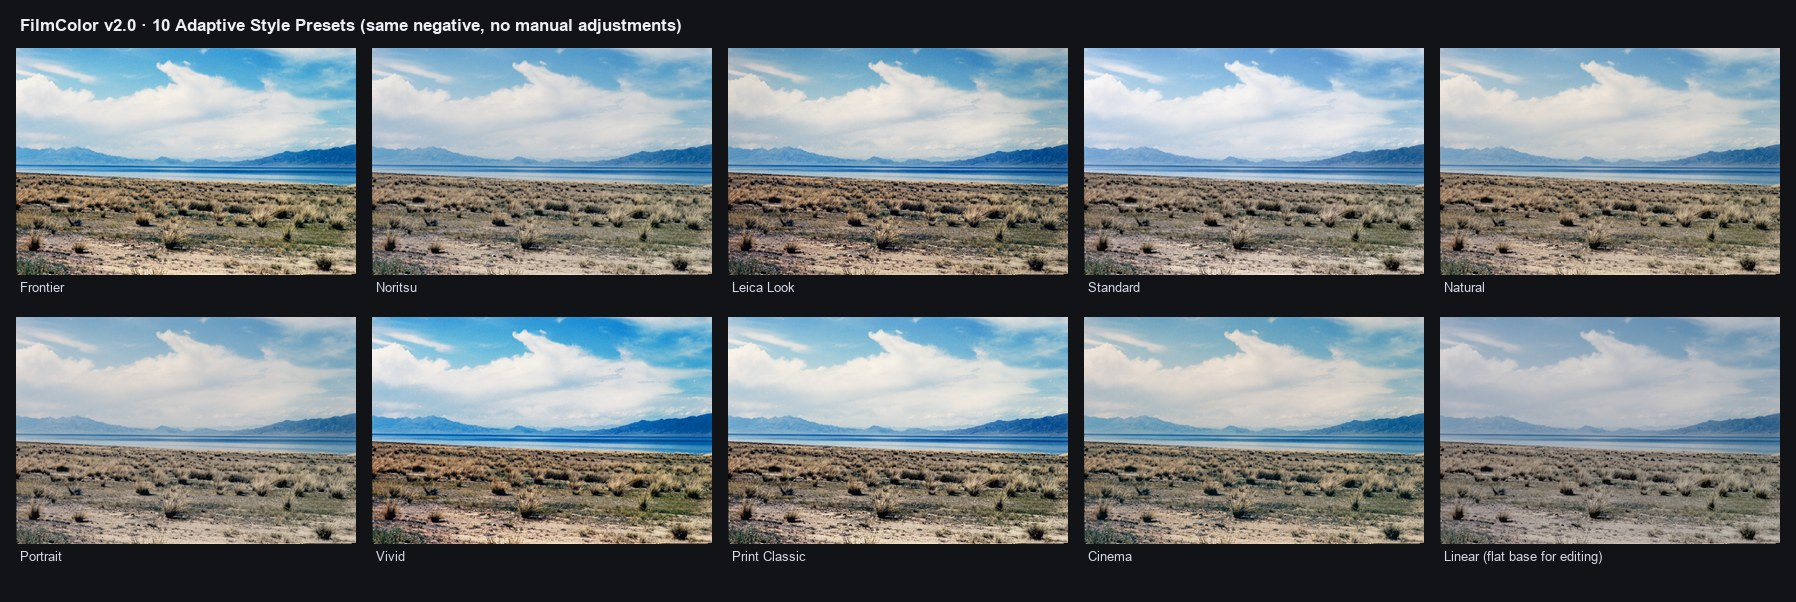
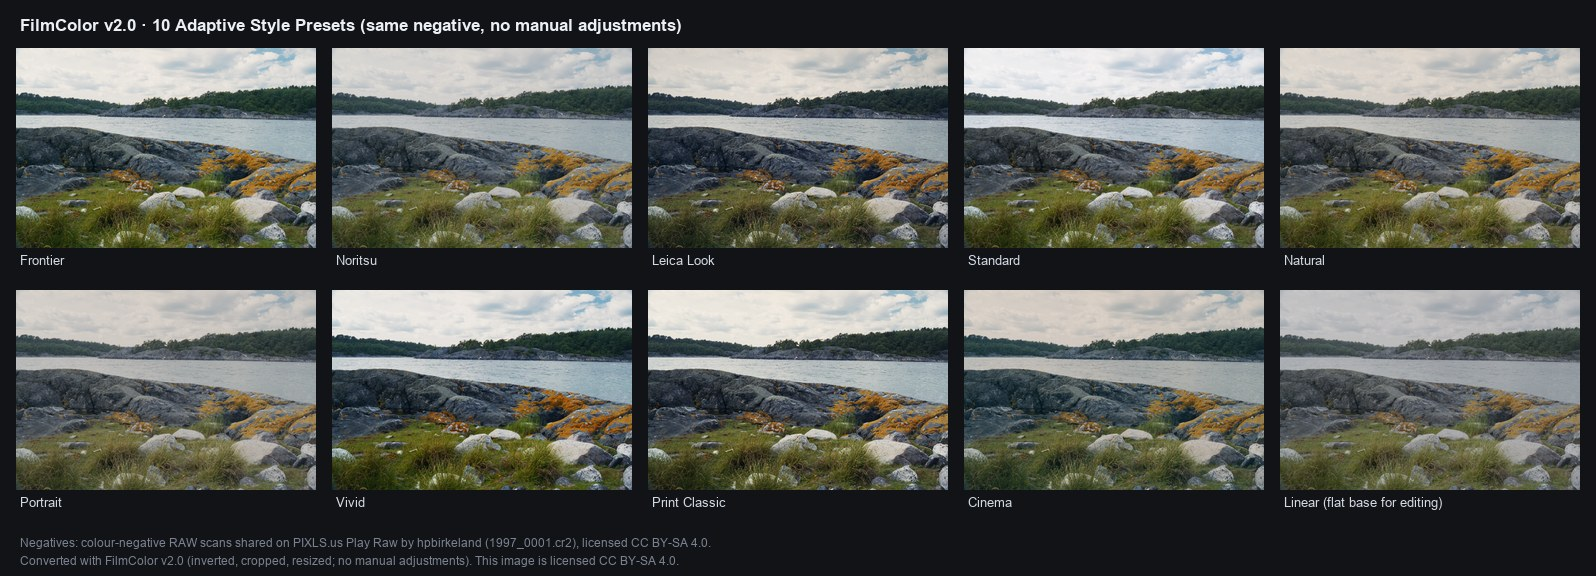
docs(readme): showcase images from CC BY-SA 4.0 PIXLS.us samples
Replace the before/after, preset and interface images with FilmColor v2.0
conversions of colour-negative RAW scans that photographers shared on
PIXLS.us Play Raw under CC BY-SA 4.0 (hpbirkeland, jonathanBieler,
clennep, jjbraun). Credit them in both README captions, on the images and
in docs/assets/CREDITS.md; the composites are released under CC BY-SA 4.0.
The captions note that some of these frames were in the training pool, so
the blind benchmark remains the accuracy reference. Record the sources in
data/manifests/SOURCES.md.

diff --git a/data/manifests/SOURCES.md b/data/manifests/SOURCES.md
@@ -16,6 +16,7 @@
 | ext_group_pack 中公开来源的部分 | 同上；文件名显示来源于公开网站或论坛 | 2026-10-16 | 70 个“话题号_随机串”式的论坛上传文件（49 个话题号）；Internet Archive 样例、RawTherapee 样例、Signynt 官方示例、GitHub 样例与单元测试夹具、CineStill ConvertTools 官方转换、“正负样本_…5500dpi”一组；写明“帖 12569”、“原帖求 darktable negadoctor 支持”的文件 | **training / research-ok**：用户 2026-10-17 说明，许多群友就是这些论坛帖的原作者；其余文件在授权时已与群友确认取得原作者的完整授权，可用于研究和训练。**不含公开再分发** | 文件名记录的是来源，不影响授权；授权依据是用户的上述说明 |
 | own_photos | 用户自有：用户的成片文件夹 `<EXTERNAL_VOLUME>/照片`，原位只读 | 2026-10-17 登记 | 951 个文件（JPEG 899、BMP 36、TIFF 12、其他 4），18 GB，按卷编号（#001～#020、新疆、寻微映像、老照片）。来源混合：冲扫店成品（Z 7II 翻拍、Photoshop 22.4，7956×5300）；**用户本人在 Lightroom Classic 里对同一批 NEF 的调色**（8256×5504，`DSC_xxxx-编辑.jpg`）；冲印店扫描仪输出（富士 Frontier SP-3000、诺日士 EZ Controller）；Olympus E-M1 翻拍后用 Lightroom 调色；Epson V800 大画幅扫描。按内容核对（`experiments/s3_photos_audit/`）：与 ext_own 同一画格的有 #002 APX、#005 5219、#006 5207（`dsc8242`）、#013 5207（`dsc6233`）、#014 Acros、新疆/#007 Gold 200（用户调色 20 张 + 店家成品 17 张）、新疆/#011 5207（`dsc6199`）、新疆/#012 5207（`dsc6161`，用户调色 37 张）；新疆/#008 中的 20 张与 shop_r01 逐字节相同；其余文件夹在素材包里没有对应的负片；其中新疆 #004、#009、#010 是 Eastman 5294（Ektachrome 反转片），原片本身就是正像，原始 NEF 用户还保留着（用户 2026-10-17 说明），但不能作为负片反转的监督配对，只能作为审美参考 | **training-ok（含商业开发）**：用户拥有完整版权（用户 2026-10-17 说明为自有照片） | **其中 #005 和新疆/#011 共 71 个文件是冻结卷的其他版本，已按 SHA256 加入冻结清单**（`frozen_test_v1_photos.json`）。用户本人的调色是第二种参考风格（同一批负片有店家和用户两种成品），用途待定 |
 | ext_group_pack_20261018 | 群友 2026-10-18 新增，在外接 SSD `<DATA_ROOT>/film_negatives/` 原位只读（重组后的 `01_`～`07_` 目录和几个散目录） | 2026-10-18 | 新增 2652 个文件（去重 2572）：彩负 563（其中 458 个是 BlueNeg 负片的 4000 px TIFF 转码）、黑白 1243、成品 441（BlueNeg 冲印，与本地副本逐字节相同）、散目录 404；明细见 `docs/S3_EXT_DATA_AUDIT.md` §7 | **training / research-ok**：用户 2026-10-18 说明已取得授权；**不含公开再分发**。其中 BlueNeg 部分另按 BlueNeg LICENSE：需注明 “Copyrighted by Tien-Tsin Wong” | BlueNeg 负片 TIFF 由 ffmpeg 转码，与原始 DNG 不成纯线性关系 |
+| pixls_playraw_showcase | PIXLS.us Play Raw 帖子首楼附件：https://discuss.pixls.us/t/20293 （hpbirkeland，`1997_0001.cr2`）、https://discuss.pixls.us/t/61293 （jonathanBieler，`0V2A9764.CR3`）、https://discuss.pixls.us/t/48581 （clennep，`20250228-101231__7801720.NEF`）、https://discuss.pixls.us/t/43472 （jjbraun，`10-1.NEF`） | 2026-11-28 | 4 个相机翻拍彩色负片 RAW（sha256 依次为 `56f30d06…6749`、`fafe4596…4f2b`、`2e2cae59…dec2`、`fe3ab721…4137`）；与素材库 `01_彩色负片_未反相` 中的 A325 / A1062 / A1114、A1071 / A336 / A1115、A332 / A1083 / A1120、A330 / A1117 / A1294 逐字节相同，即 ext_group_pack 中公开来源文件的原始出处 | **CC BY-SA 4.0**（原帖每个文件下方的许可声明）：允许商用、再分发和改作，须署名，改作须以相同许可发布 | 用作 README 展示图（`docs/assets/showcase_before_after.jpg`、`showcase_presets.jpg`、`ui_preview.png`），这几张图按 CC BY-SA 4.0 发布，署名见 `docs/assets/CREDITS.md`。A325、A1294 是 v2.0 的 Silver 训练帧（`silver_visual_review.json` 收录，Silver 权重 0.25）；A332 在 Silver 复核中作为重复帧剔除；其余副本是否在早先的 108 帧 Silver 中未核对 |
 | （未获取）nlp_forum_7898 | NLP 论坛帖 https://forums.negativelabpro.com/t/7898 （Portra 400 偏绿案例）第 4 楼的 Drive 文件夹 | 2026-10-15 尝试 | — | — | 文件夹返回 404（已删除或改为私有），未下载 |
 
 ## 数据用途划分（2026-10-15 定）

diff --git a/docs/assets/CREDITS.md b/docs/assets/CREDITS.md
@@ -1,0 +1,32 @@
+# Image credits / 图片署名
+
+The README showcase images in this folder are derived from colour-negative RAW camera scans that their
+photographers shared in the [PIXLS.us Play Raw](https://discuss.pixls.us/c/playraw/30) category under the
+[Creative Commons Attribution-ShareAlike 4.0 International](https://creativecommons.org/licenses/by-sa/4.0/) licence (CC BY-SA 4.0), as stated in the
+footer of each file in the original post.
+
+| Used in | Source RAW | Photographer (PIXLS.us user) | Original post | Licence |
+|---|---|---|---|---|
+| `showcase_before_after.jpg` frame 01, `showcase_presets.jpg` | `1997_0001.cr2` | hpbirkeland | [Negatives and color profiles](https://discuss.pixls.us/t/20293) (2020-09-17) | [CC BY-SA 4.0](https://creativecommons.org/licenses/by-sa/4.0/) |
+| `showcase_before_after.jpg` frame 02 | `0V2A9764.CR3` | jonathanBieler | [Lyon skyline at dusk (Gold 200 Negative)](https://discuss.pixls.us/t/61293) (2026-10-12) | [CC BY-SA 4.0](https://creativecommons.org/licenses/by-sa/4.0/) |
+| `showcase_before_after.jpg` frame 03 | `20250228-101231__7801720.NEF` | clennep | [negadoctor snowy day](https://discuss.pixls.us/t/48581) (2025-03-02) | [CC BY-SA 4.0](https://creativecommons.org/licenses/by-sa/4.0/) |
+| `ui_preview.png` (sample photo) | `10-1.NEF` | jjbraun | [Negadoctor color negative](https://discuss.pixls.us/t/43472) (2024-05-06) | [CC BY-SA 4.0](https://creativecommons.org/licenses/by-sa/4.0/) |
+
+**Changes made.** Each RAW was converted from negative to positive with FilmColor v2.0 (default engine, the preset
+named under each tile, automatic crop) with no manual adjustments, then cropped to the exposed frame, resized and
+arranged with labels. The "Original negative" tiles are the same RAW rendered without inversion.
+
+**Licence of these images.** `showcase_before_after.jpg`, `showcase_presets.jpg` and `ui_preview.png` are
+adaptations of the works above and are released under [CC BY-SA 4.0](https://creativecommons.org/licenses/by-sa/4.0/); when reusing them, credit the
+photographers as listed above. This licence covers only these image files, not the FilmColor source code.
+
+Some of these public frames were also among the unpaired negatives used to train FilmColor v2.0, so they show
+typical output rather than accuracy on unseen frames; see the blind benchmark in the README for the latter.
+
+---
+
+README 中的对比图来自摄影师在 [PIXLS.us Play Raw](https://discuss.pixls.us/c/playraw/30) 版块公开分享的彩色负片 RAW 翻拍，原帖在每个文件下方注明
+采用 [CC BY-SA 4.0](https://creativecommons.org/licenses/by-sa/4.0/) 许可（署名—相同方式共享）。作者与原帖见上表。上述三张图是这些作品的改作（用 FilmColor v2.0
+反相、裁切、缩放并排版，未做手动调整），同样以 CC BY-SA 4.0 发布；转载时请按上表为原作者署名。该许可只适用于这几张图片，
+不适用于 FilmColor 源代码。其中部分画格也曾作为无配对样本参与 v2.0 训练，因此这组图展示的是一般效果；未参与训练画格上的
+准确度见 README 中的盲测。

diff --git a/README.md b/README.md
@@ -19,7 +19,7 @@
 
 ![FilmColor v2.0 Before and After Negative Conversion](docs/assets/showcase_before_after.jpg)
 
-> **Real camera-scanned 35mm color negatives** converted directly to 16-bit positives by **FilmColor v2.0** with no manual per-channel curve work. Left: original orange-masked RAW negative. Center: **Frontier** preset. Right: **Leica Look** preset.
+> **Color-negative RAW camera scans that photographers shared on [PIXLS.us](https://discuss.pixls.us/c/playraw/30) under [CC BY-SA 4.0](https://creativecommons.org/licenses/by-sa/4.0/)**, converted directly to 16-bit positives by **FilmColor v2.0** with no manual adjustments. Left: original orange-masked negative. Center: **Frontier** preset. Right: **Leica Look** preset. Some of these public frames were among the unpaired negatives used in training, so they show typical output rather than blind accuracy; see the [blind benchmark](#blind-color-accuracy-benchmark) for frames the model never saw. Negatives by hpbirkeland, jonathanBieler and clennep; this composite is licensed CC BY-SA 4.0 ([image credits](docs/assets/CREDITS.md)).
 
 ---
 
@@ -92,6 +92,8 @@ FilmColor integrates directly into the tools film photographers already use — 
 
 ![FilmColor v2.0 Lightroom Classic and Photoshop UXP Interfaces](docs/assets/ui_preview.png)
 
+> Sample photo: `10-1.NEF` by jjbraun ([PIXLS.us](https://discuss.pixls.us/t/43472), CC BY-SA 4.0); this image is licensed CC BY-SA 4.0 ([image credits](docs/assets/CREDITS.md)).
+
 ### Adobe Lightroom Classic (`FilmColor.lrplugin`)
 - **True 16-bit Forward Positive Workflow**: Outputs a calibrated 16-bit linear TIFF positive automatically imported and stacked above your original negative — every Lightroom slider, tone curve, HSL wheel, and AI mask works in the natural forward direction.
 - **Exact Crop, Straighten & Orientation Inheritance**: Reproduces your Lightroom crop, straighten angle and rotation, and samples the film base inside the crop, automatically rejecting sprocket holes and backlight borders.
@@ -110,6 +112,8 @@ FilmColor integrates directly into the tools film photographers already use — 
 Each preset adapts to the frame's own tonal range and color content, and switches in real time (~130 ms preview via a 33³ float32 trilinear 3D LUT):
 
 ![FilmColor v2.0 10 Adaptive Style Presets](docs/assets/showcase_presets.jpg)
+
+> Negative: `1997_0001.cr2` by hpbirkeland ([PIXLS.us](https://discuss.pixls.us/t/20293), CC BY-SA 4.0); this image is licensed CC BY-SA 4.0 ([image credits](docs/assets/CREDITS.md)).
 
 `Frontier` · `Noritsu` · `Leica Look` · `Standard` · `Natural` · `Portrait` · `Vivid` · `Print Classic` · `Cinema` · `Linear`
 
